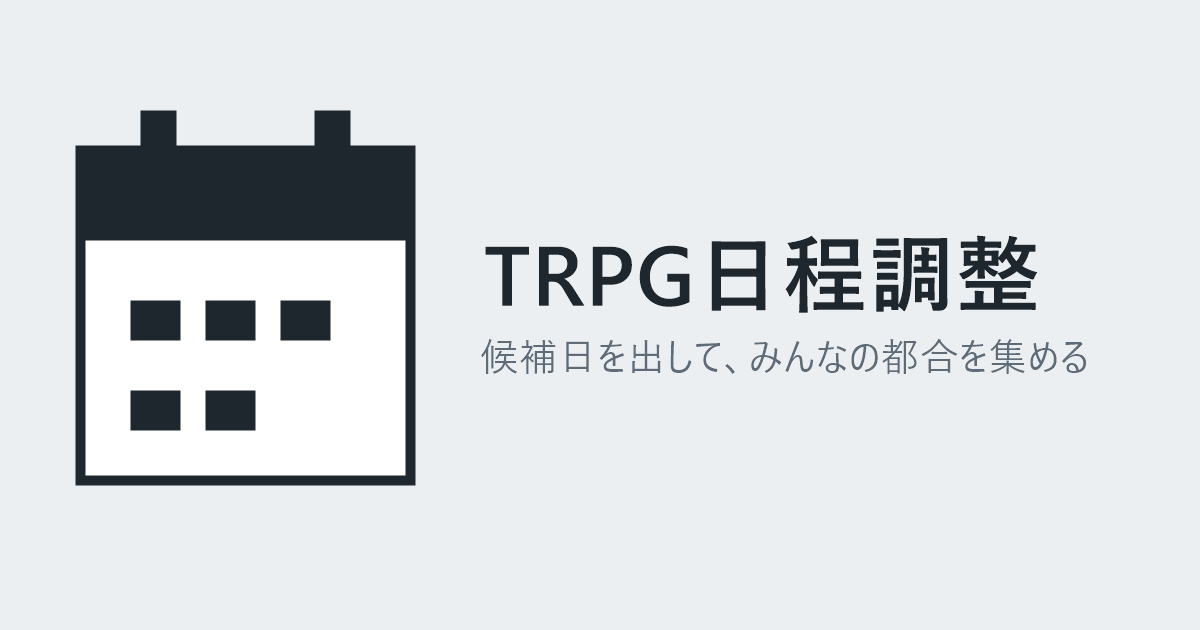
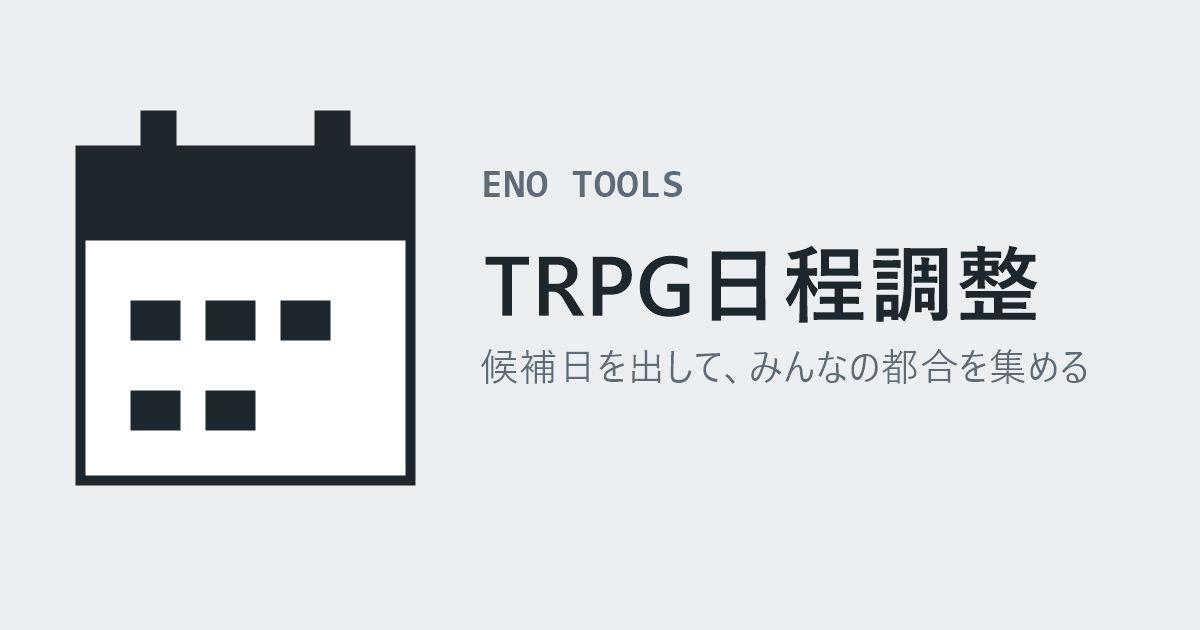
Add ENO TOOLS label to card image and site_name

Changed region(s): [[0.4008, 0.3619, 0.8633, 0.5127], [0.4008, 0.5429, 0.925, 0.6032], [0.4008, 0.2714, 0.5858, 0.3317]]

diff --git a/index.html b/index.html
@@ -7,7 +7,7 @@
 <title>TRPG日程調整</title>
 <meta name="description" content="候補日を出して、みんなの都合を集めるTRPG向け日程調整ツール">
 <meta property="og:type" content="website">
-<meta property="og:site_name" content="TRPG日程調整">
+<meta property="og:site_name" content="ENO TOOLS">
 <meta property="og:title" content="TRPG日程調整">
 <meta property="og:description" content="候補日を出して、みんなの都合を集めるTRPG向け日程調整ツール">
 <meta property="og:image" content="https://enoel-eno.github.io/trpg-sched/og-image.png">
